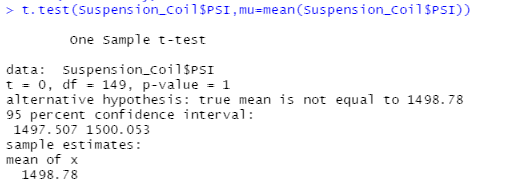
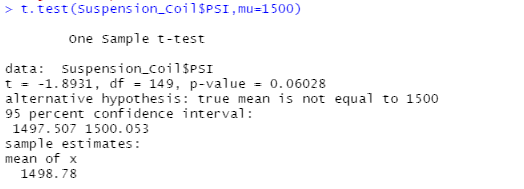
update ttests

Changed region(s): [[0.0, 0.3175, 0.9027, 0.9524], [0.0, 0.0, 0.9339, 0.0794], [0.1245, 0.1587, 0.4047, 0.2381]]

diff --git a/README.md b/README.md
@@ -7,12 +7,38 @@
 #
 ![MechaCar](https://github.com/jcsargis00/MechaCar_Statistical_Analysis-/blob/main/images/summarymecha.PNG)
 #
+The absolute minimum is -19.4701, the absolute maximum is 18.5849, showing fairly close tails for a normal distribution.  
+The mean is -0.0692, very close to 0.  The p-values
 ### Summary
 #
 * Which variables/coefficients provided a non-random amount of variance to the mpg values in the dataset?
-* Is the slope of the linear model considered to be zero? Why or why not?
-* Does this linear model predict mpg of MechaCar prototypes effectively? Why or why not?
+A 95% level of confidence was predetermined, meaning the p-value should be compared to alpha = .05 level of significance to verify if statistically significant.
+#
+Coefficients:
+mpg: 0 < .05, statistically significant, non-random amount of variance
+vehicle length: 0 < .05, statistically significant, non-random amount of variance
+vehicle weight: .08 > .05 not statistically significant, random amount of variance
+spoiler angle: .31 > .05 not statistically significant, random amount of variance
+ground clearance: 0 > .05 statistically significant, non-random amount of variance
+AWD: .19>=.05 not statistically significant, random amount of variance
+#
+Significant: vehicle length, and ground clearance represent non-random amounts of variance with respect to the mpg values
+#
+* Is the slope of the linear model considered to be zero? 
+#
+The slope is non-zero for all variables, although vehicle weight and spoiler angle are close to zero.
+Slopes:
+vehicle length 6.267
+vehicle weight .001
+spoiler angle .069
+ground clearance 3.546
+AWD -3.411
 
+
+* Does this linear model predict mpg of MechaCar prototypes effectively? 
+R-squared is 0.7149, adjusted R-squared is 0.6825.  This linear model has a strong correlation with the dataset
+and should predict mpg of MechaCar prototypes effectively, provided there are not other variables outside of the
+dataset contributing to the variaton of the mpg.
 #
 ## Summary Statistics on Suspension Coils
 #
@@ -22,13 +48,17 @@
 #
 #### Total Summary
 #
+Summary statistics of all of the manufacturing lots are shown in the table below. The mean is 1498.78 and the mean is 1500 for this sample.
 ![total summary](https://github.com/jcsargis00/MechaCar_Statistical_Analysis-/blob/main/images/totalsummary.PNG)
 #
 #### Lot Summary
 #
+Statistics for each of the 3 lots are shown below.  The mean and median are close to 1500 for each lot.
 ![lot summary](https://github.com/jcsargis00/MechaCar_Statistical_Analysis-/blob/main/images/lotsummary.PNG)
 #
-* The design specifications for the MechaCar suspension coils dictate that the variance of the suspension coils must not exceed 100 pounds per square inch. Does the current manufacturing data meet this design specification for all manufacturing lots in total and each lot individually? Why or why not?
+* The design specifications for the MechaCar suspension coils dictate that the variance of the suspension coils must not exceed 100 pounds per square inch. Does the current manufacturing data meet this design specification for all manufacturing lots in total and each lot individually? 
+The variance for all of the lots is 62.29356, which is < 100.  However, the variance for lot 3 is 170.2861224, which is >100.
+Lots 1 and 2 meet the design specifications as individual lots, while lot 3 on it's own does not, but as part of all 3 lots, it does.
 #
 
 ## T-Tests on Suspension Coils
